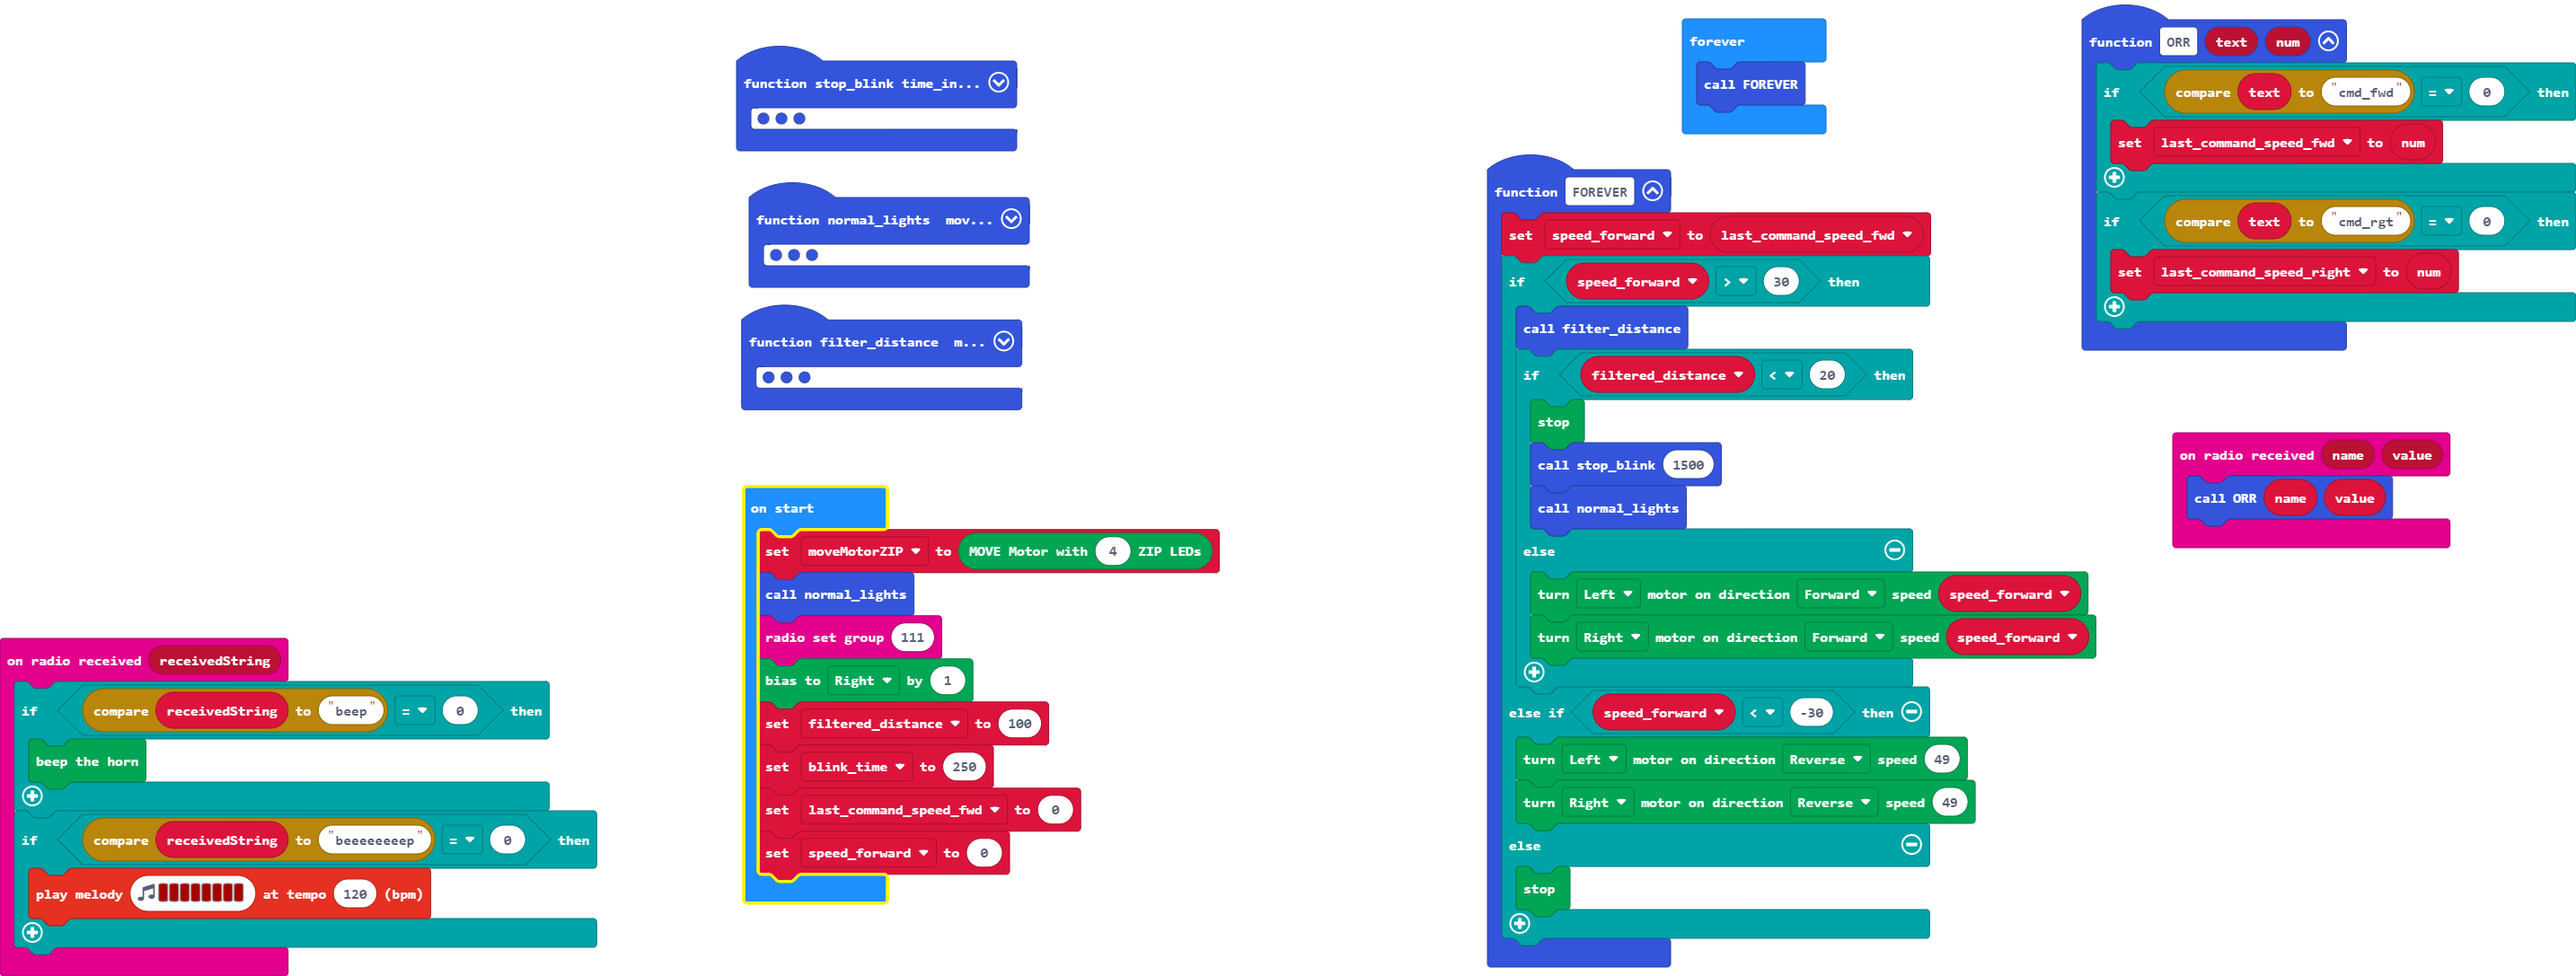
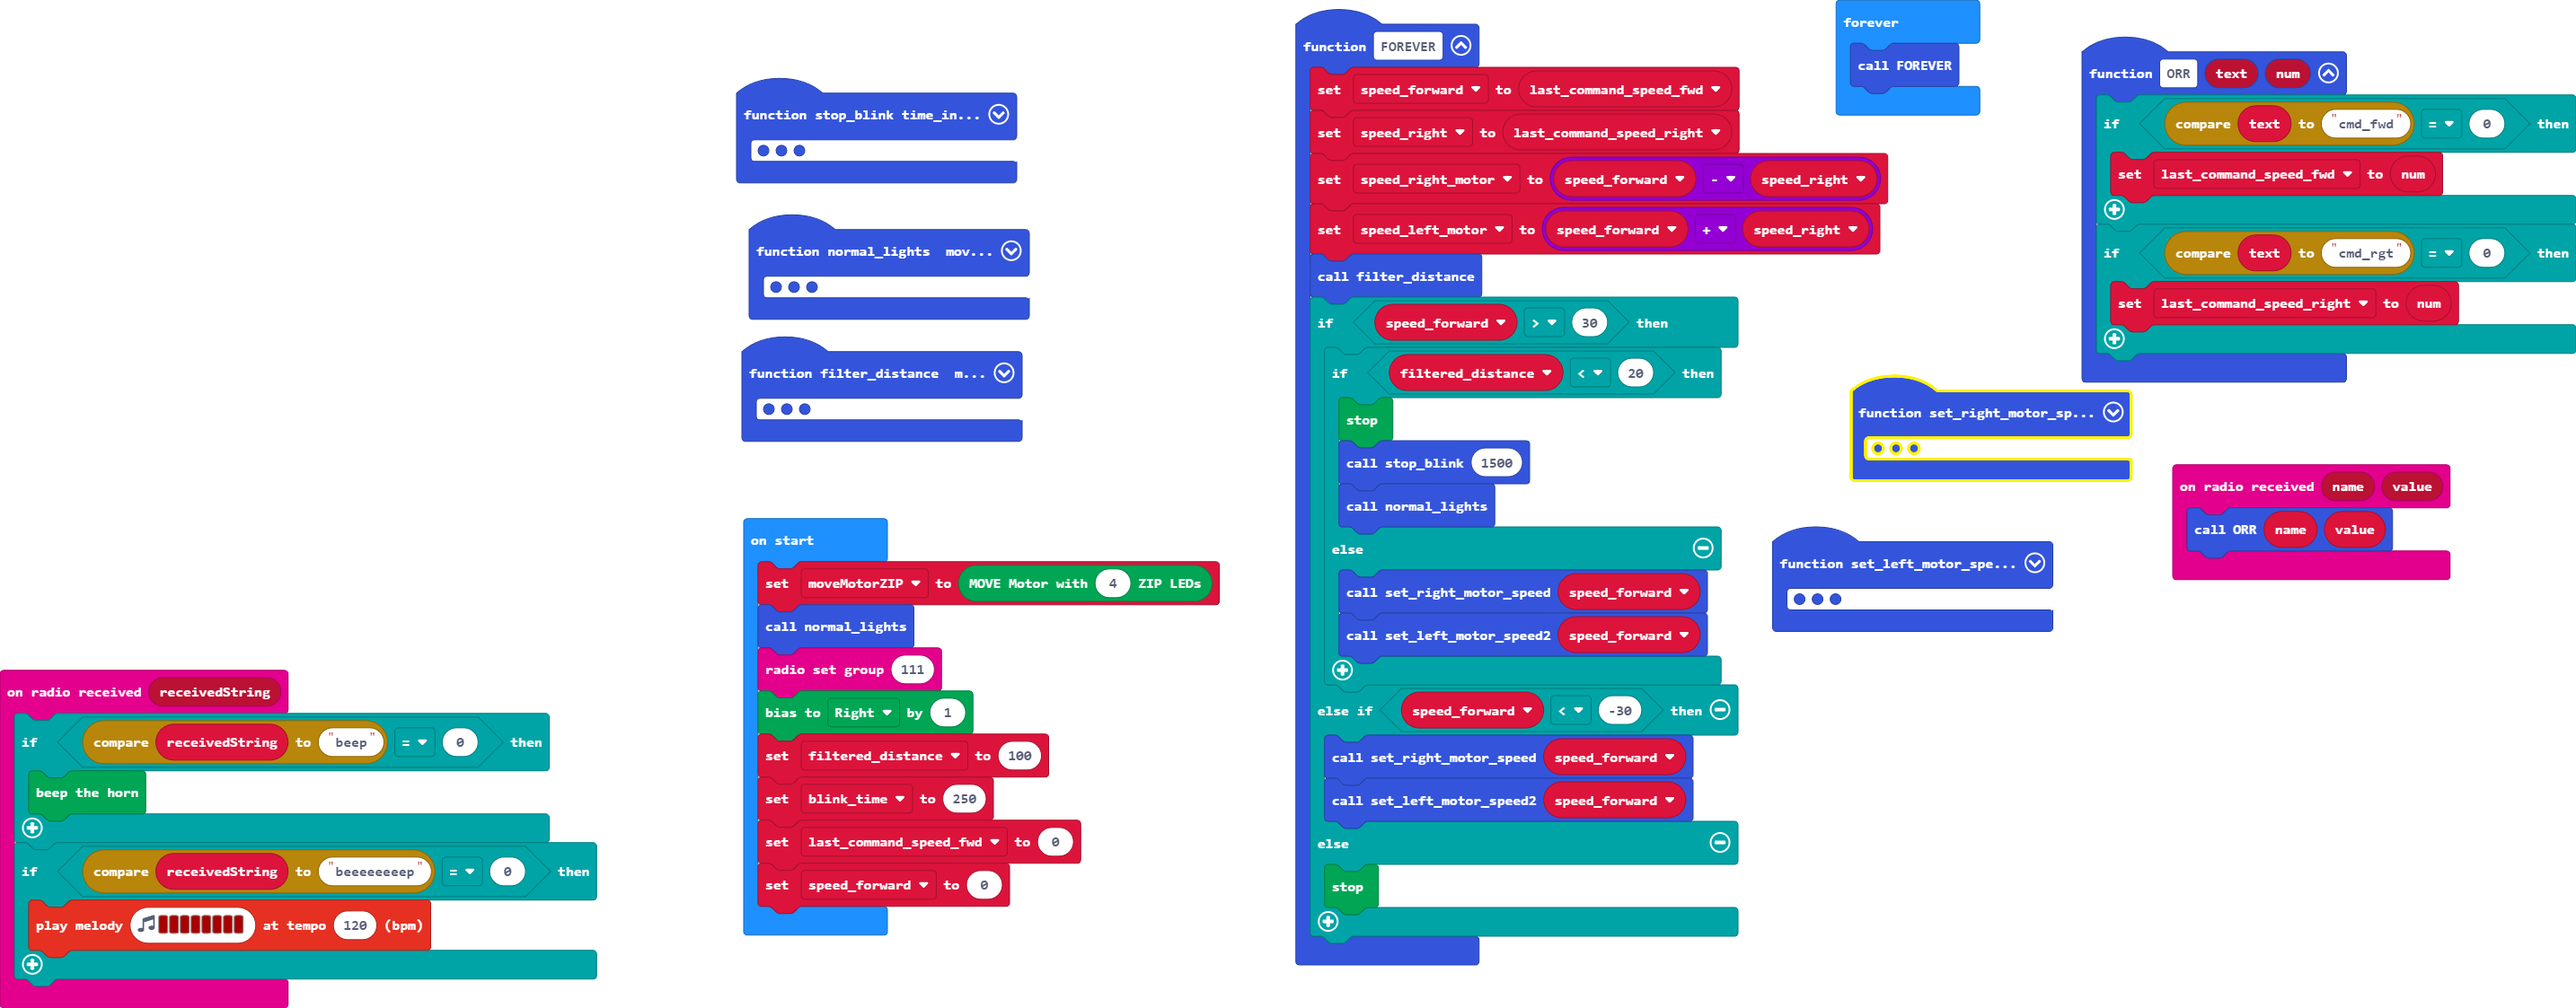
left/right motor speed

diff --git a/main.ts b/main.ts
@@ -1,18 +1,21 @@
 function FOREVER () {
     speed_forward = last_command_speed_fwd
+    speed_right = last_command_speed_right
+    speed_right_motor = speed_forward - speed_right
+    speed_left_motor = speed_forward + speed_right
+    filter_distance()
     if (speed_forward > 30) {
-        filter_distance()
         if (filtered_distance < 20) {
             Kitronik_Move_Motor.stop()
             stop_blink(1500)
             normal_lights()
         } else {
-            Kitronik_Move_Motor.motorOn(Kitronik_Move_Motor.Motors.MotorLeft, Kitronik_Move_Motor.MotorDirection.Forward, speed_forward)
-            Kitronik_Move_Motor.motorOn(Kitronik_Move_Motor.Motors.MotorRight, Kitronik_Move_Motor.MotorDirection.Forward, speed_forward)
+            set_right_motor_speed(speed_forward)
+            set_left_motor_speed2(speed_forward)
         }
     } else if (speed_forward < -30) {
-        Kitronik_Move_Motor.motorOn(Kitronik_Move_Motor.Motors.MotorLeft, Kitronik_Move_Motor.MotorDirection.Reverse, 49)
-        Kitronik_Move_Motor.motorOn(Kitronik_Move_Motor.Motors.MotorRight, Kitronik_Move_Motor.MotorDirection.Reverse, 49)
+        set_right_motor_speed(speed_forward)
+        set_left_motor_speed2(speed_forward)
     } else {
         Kitronik_Move_Motor.stop()
     }
@@ -55,6 +58,13 @@ radio.onReceivedString(function (receivedString) {
         music.playMelody("C5 C5 C5 C5 C5 C5 C5 C5 ", 120)
     }
 })
+function set_left_motor_speed2 (speed: number) {
+    if (speed > 0) {
+        Kitronik_Move_Motor.motorOn(Kitronik_Move_Motor.Motors.MotorLeft, Kitronik_Move_Motor.MotorDirection.Forward, speed)
+    } else {
+        Kitronik_Move_Motor.motorOn(Kitronik_Move_Motor.Motors.MotorLeft, Kitronik_Move_Motor.MotorDirection.Reverse, speed * -1)
+    }
+}
 radio.onReceivedValue(function (name, value) {
     ORR(name, value)
 })
@@ -66,7 +76,17 @@ function filter_distance () {
     radio.sendValue("filterd distance", filtered_distance)
     radio.sendValue("measured distance", Kitronik_Move_Motor.measure())
 }
+function set_right_motor_speed (speed: number) {
+    if (speed > 0) {
+        Kitronik_Move_Motor.motorOn(Kitronik_Move_Motor.Motors.MotorRight, Kitronik_Move_Motor.MotorDirection.Forward, speed)
+    } else {
+        Kitronik_Move_Motor.motorOn(Kitronik_Move_Motor.Motors.MotorRight, Kitronik_Move_Motor.MotorDirection.Reverse, speed * -1)
+    }
+}
+let speed_left_motor = 0
+let speed_right_motor = 0
 let last_command_speed_right = 0
+let speed_right = 0
 let speed_forward = 0
 let last_command_speed_fwd = 0
 let blink_time = 0
